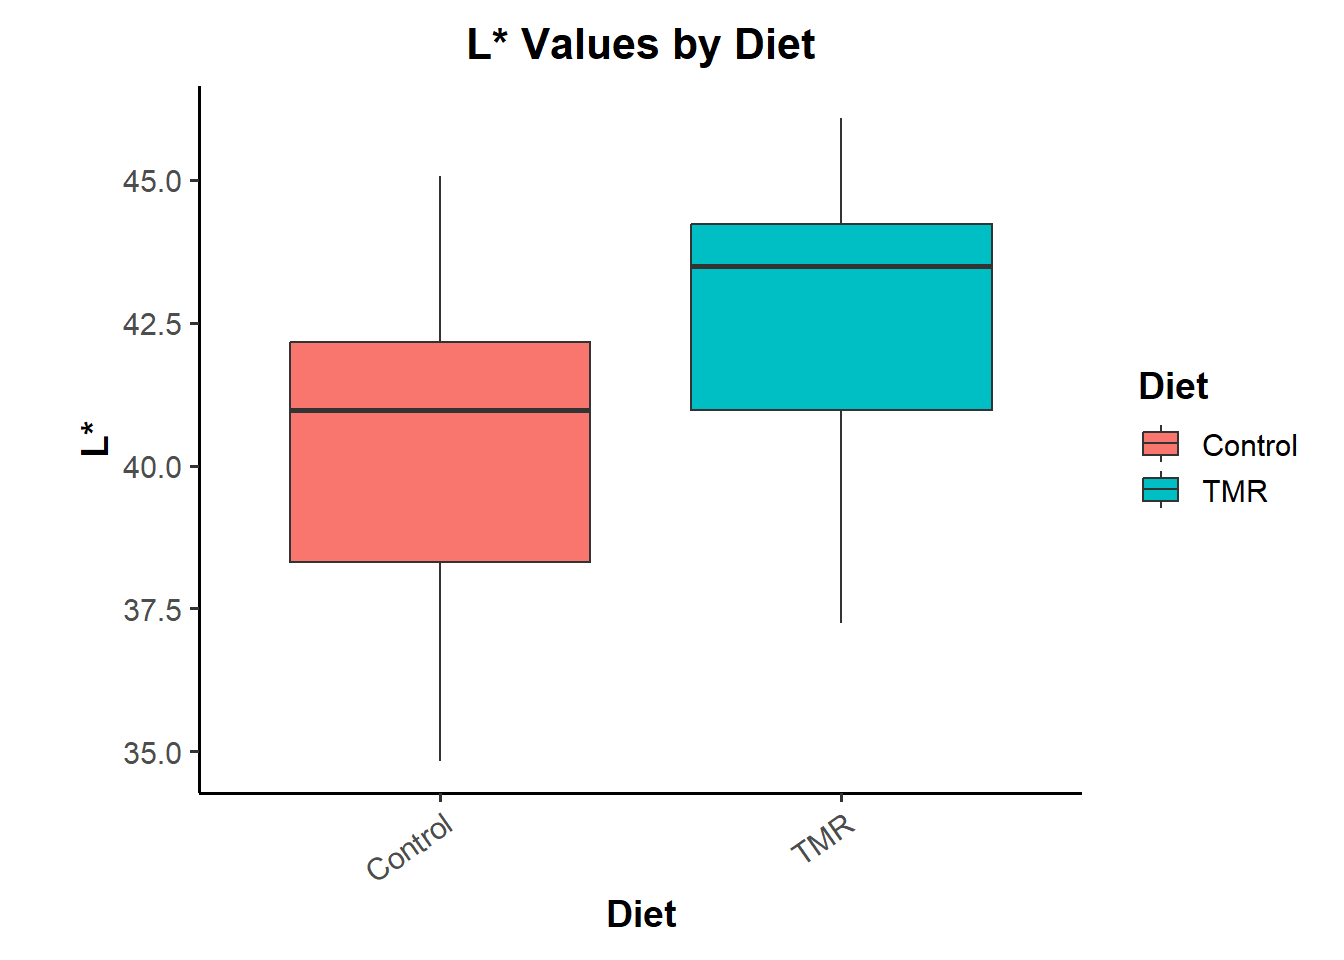
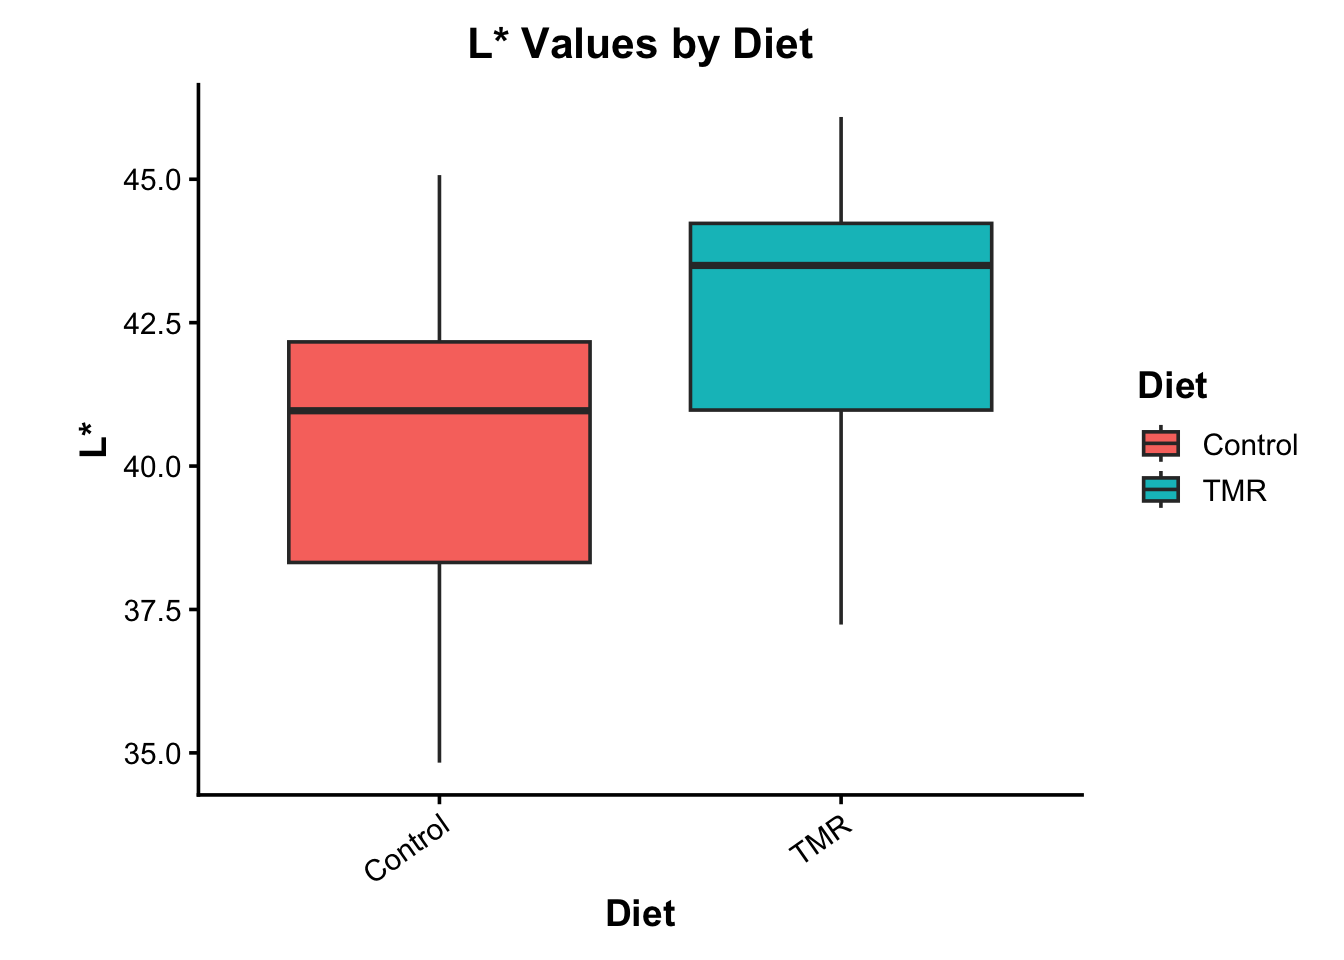
Abby updates

diff --git a/figures.html b/figures.html
@@ -8,7 +8,7 @@
 
 <meta name="author" content="Abby Cardwell and Emalee Friend">
 
-<title>Effect of a Corn Silage-Based Finishing Diet on Carcass Color and Carbon Footprint of Crossbred Angus Young Bulls</title>
+<title>Effect of a Corn Silage-Based Finishing Diet on Meat Color and Carbon Footprint of Crossbred Angus Young Bulls</title>
 <style>
 code{white-space: pre-wrap;}
 span.smallcaps{font-variant: small-caps;}
@@ -70,7 +70,7 @@ pre > code.sourceCode > span > a:first-child::before { text-decoration: underlin
 <link href="figures_files/libs/quarto-html/quarto-syntax-highlighting-7b89279ff1a6dce999919e0e67d4d9ec.css" rel="stylesheet" id="quarto-text-highlighting-styles">
 <script src="figures_files/libs/bootstrap/bootstrap.min.js"></script>
 <link href="figures_files/libs/bootstrap/bootstrap-icons.css" rel="stylesheet">
-<link href="figures_files/libs/bootstrap/bootstrap-9e3ffae467580fdb927a41352e75a2e0.min.css" rel="stylesheet" append-hash="true" id="quarto-bootstrap" data-mode="light">
+<link href="figures_files/libs/bootstrap/bootstrap-d6a003b94517c951b2d65075d42fb01b.min.css" rel="stylesheet" append-hash="true" id="quarto-bootstrap" data-mode="light">
 
 
 </head>
@@ -83,7 +83,7 @@ pre > code.sourceCode > span > a:first-child::before { text-decoration: underlin
 
 <header id="title-block-header" class="quarto-title-block default">
 <div class="quarto-title">
-<h1 class="title">Effect of a Corn Silage-Based Finishing Diet on Carcass Color and Carbon Footprint of Crossbred Angus Young Bulls</h1>
+<h1 class="title">Effect of a Corn Silage-Based Finishing Diet on Meat Color and Carbon Footprint of Crossbred Angus Young Bulls</h1>
 </div>
 
 
@@ -108,7 +108,7 @@ pre > code.sourceCode > span > a:first-child::before { text-decoration: underlin
 
 <section id="introduction" class="level1">
 <h1>Introduction</h1>
-<p>This report evaluates the carbon footprint and the carcass color of cattle diets using a data set from Mendeley Data.</p>
+<p>This report evaluates the carbon footprint and the meat color of cattle diets using a data set from Mendeley Data.</p>
 <p>The data set originates from a study titled “Effect of a Corn Silage-Based Finishing Diet on Growth, Carcass Composition, Meat Quality, Methane Emissions and Carbon Footprint of Crossbred Angus Young Bulls”</p>
 </section>
 <section id="data-source" class="level1">
@@ -133,8 +133,8 @@ pre > code.sourceCode > span > a:first-child::before { text-decoration: underlin
 <p>The data is presented in kg CO2 eq/kg live weight gain, kg CO2 eq/kg carcass weight, and kg CO2 eq/kg carcass protein. Their lack of visual separation between sections makes the chart hard to read. By dividing up the live weight, carcass weight, and carcass protein sections into 3 figures would make chart easier to read. Also by dividing up the sections into spent grains, concentrate, digestive tract, maize silage, manure, and straw make the displays more informative.</p>
 <p><img src="table%209.jpg" class="img-fluid"></p>
 </section>
-<section id="new-carbon-footprint-figure" class="level1">
-<h1>New Carbon Footprint Figure</h1>
+<section id="new-carbon-footprint-figures" class="level1">
+<h1>New Carbon Footprint Figures</h1>
 <p>The Mendeley Data did not include carcass protein values; therefore, figures were created only for kg CO2 eq/kg of live weight and kg CO2 eq/kg carcass weight.</p>
 <p>In addition, a separate figure was created to show CO2 eg/kg by emission source, including feed components, manure, and digestive tract emisisons.</p>
 <p>The revised figures improve interpretation by:</p>
@@ -236,14 +236,14 @@ pre > code.sourceCode > span > a:first-child::before { text-decoration: underlin
 </div>
 </div>
 </section>
-<section id="original-color-chart-critique" class="level1">
-<h1>Original Color Chart Critique</h1>
+<section id="original-meat-color-chart-critique" class="level1">
+<h1>Original Meat Color Chart Critique</h1>
 <p>The original manuscript table had several limitations:</p>
-<p>xxxxxxxxxxxxxxxxxxxxxxxxxxxxxxxx</p>
+<p>The data for the L, a, and b values were only given in the table below. We thought data like this would be better shown in a box plot graph. It also separates the L, a, and b values from the other color scores. The graphs make the data look more streamlined and easier to comprehend.</p>
 <p><img src="Table%206.jpg" class="img-fluid"></p>
 </section>
-<section id="new-color-figures" class="level1">
-<h1>New Color Figures</h1>
+<section id="new-meat-color-figures" class="level1">
+<h1>New Meat Color Figures</h1>
 <div class="cell">
 <details class="code-fold">
 <summary>Show Code</summary>
